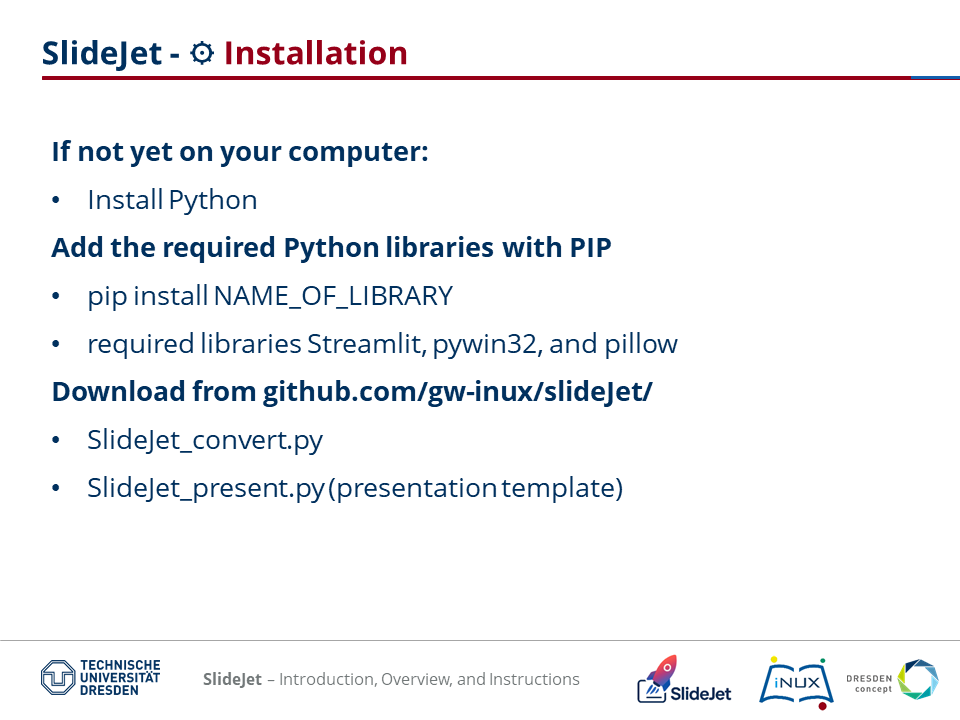
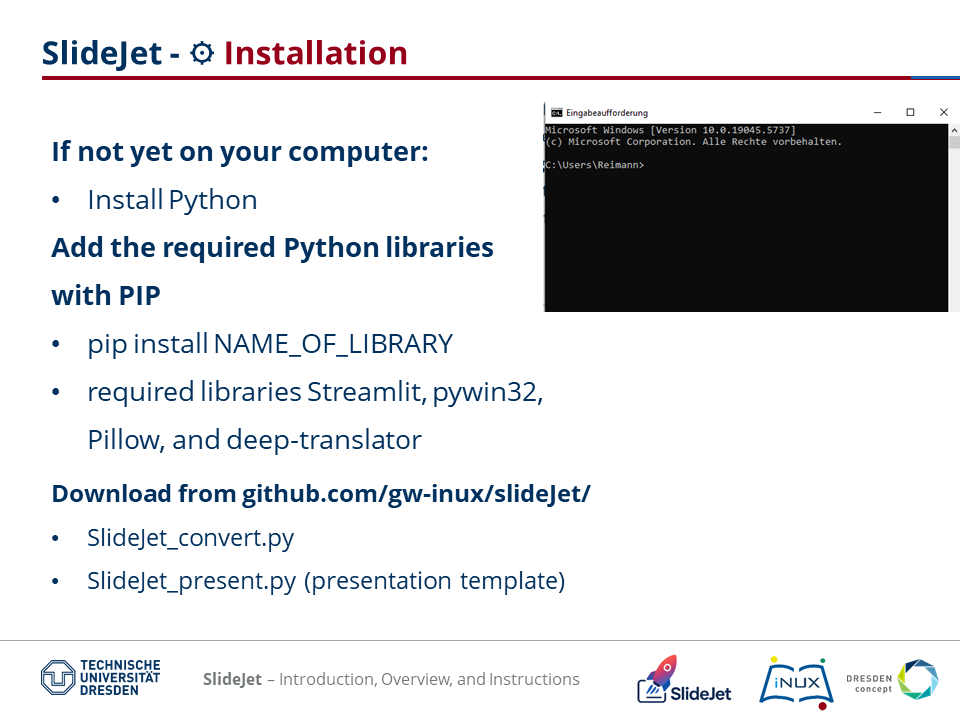
updates

diff --git a/SlideJet_convert.py b/SlideJet_convert.py
@@ -1,11 +1,12 @@
 import os
-import streamlit as st
 import tempfile
 import shutil
+import json
+
+import streamlit as st
 import pythoncom
 import win32com.client
-import json
-import tempfile
+
 from PIL import Image
 
 ###

diff --git a/README.md b/README.md
@@ -28,18 +28,37 @@ To run **SlideJet-Convert**, you need the following installed locally (on **Wind
 
 - [Python](https://www.python.org/downloads/)
 - [Microsoft PowerPoint](https://www.microsoft.com/microsoft-365/powerpoint)
-- Python packages: `streamlit`, `pywin32`, and `pillow`
+- Python packages: `streamlit`, `pywin32`, `Pillow`, and `deep-translator`
   
 ---
 
 ### ⚙ Installation and running the app
+
+If not already on your computer: Please install Python (e.g., through a distribution like Anaconda, or by downloading from www.python.org)
 
 Download the Python files **SlideJet_convert.py** and eventually **SlideJet_present.py** on a folder on your local computer
 
 Open a **Command Prompt** and run the following command:
 
 ```bash
-pip install streamlit pywin32 pillow
+pip install streamlit
+
+Then you add the required Python libraries with the command: pip install …
+ (https://docs.streamlit.io/get-started/installation)
+ 
+ ```bash
+pip install pywin32
+
+(this should include pythoncom and win32com)
+
+ ```bash
+pip install Pillow
+
+(this should include PIL)
+
+ ```bash
+pip install deep-translator
+
 ```
 Then start the app with the command window from the folder where SlideJet_convert.py is saved with:
 
